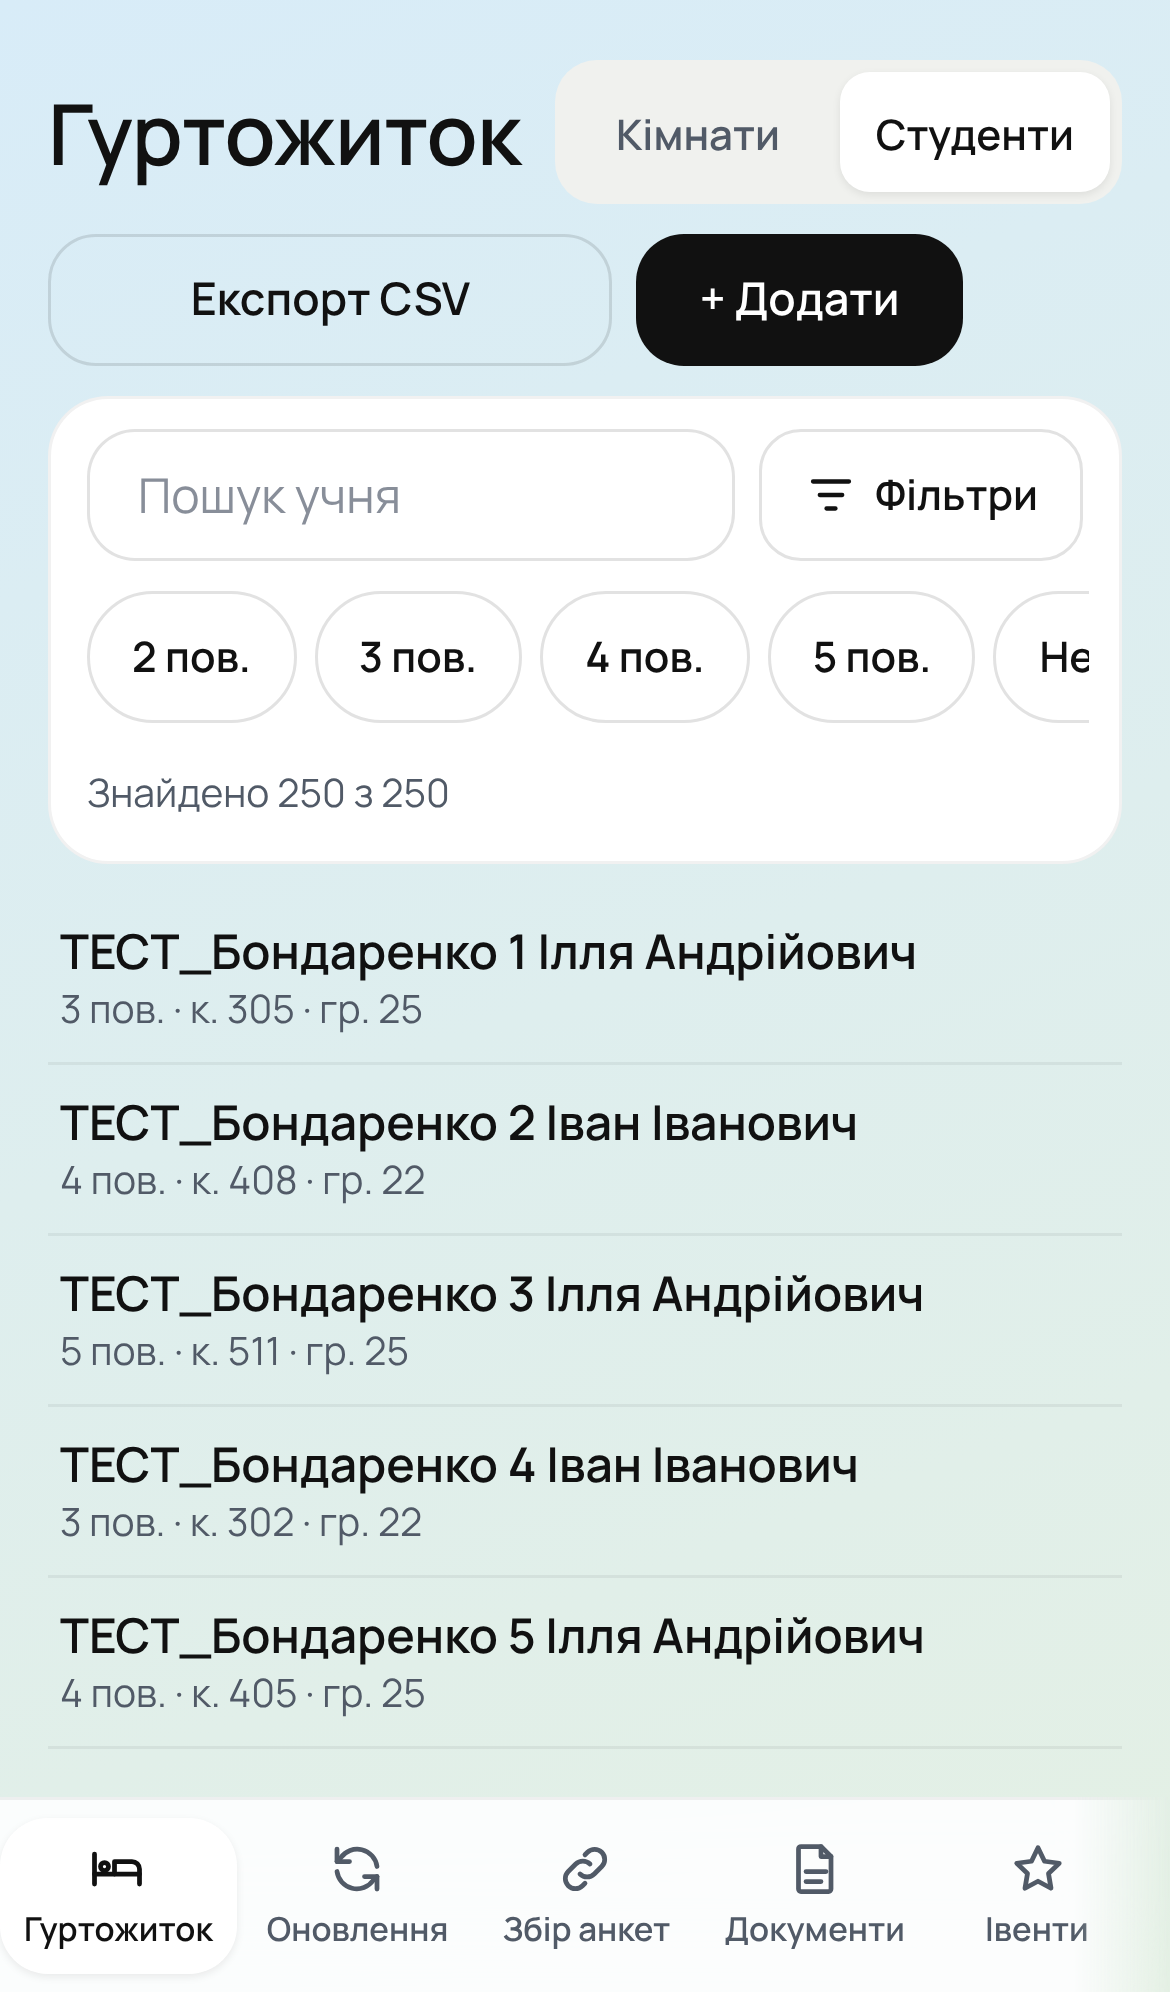
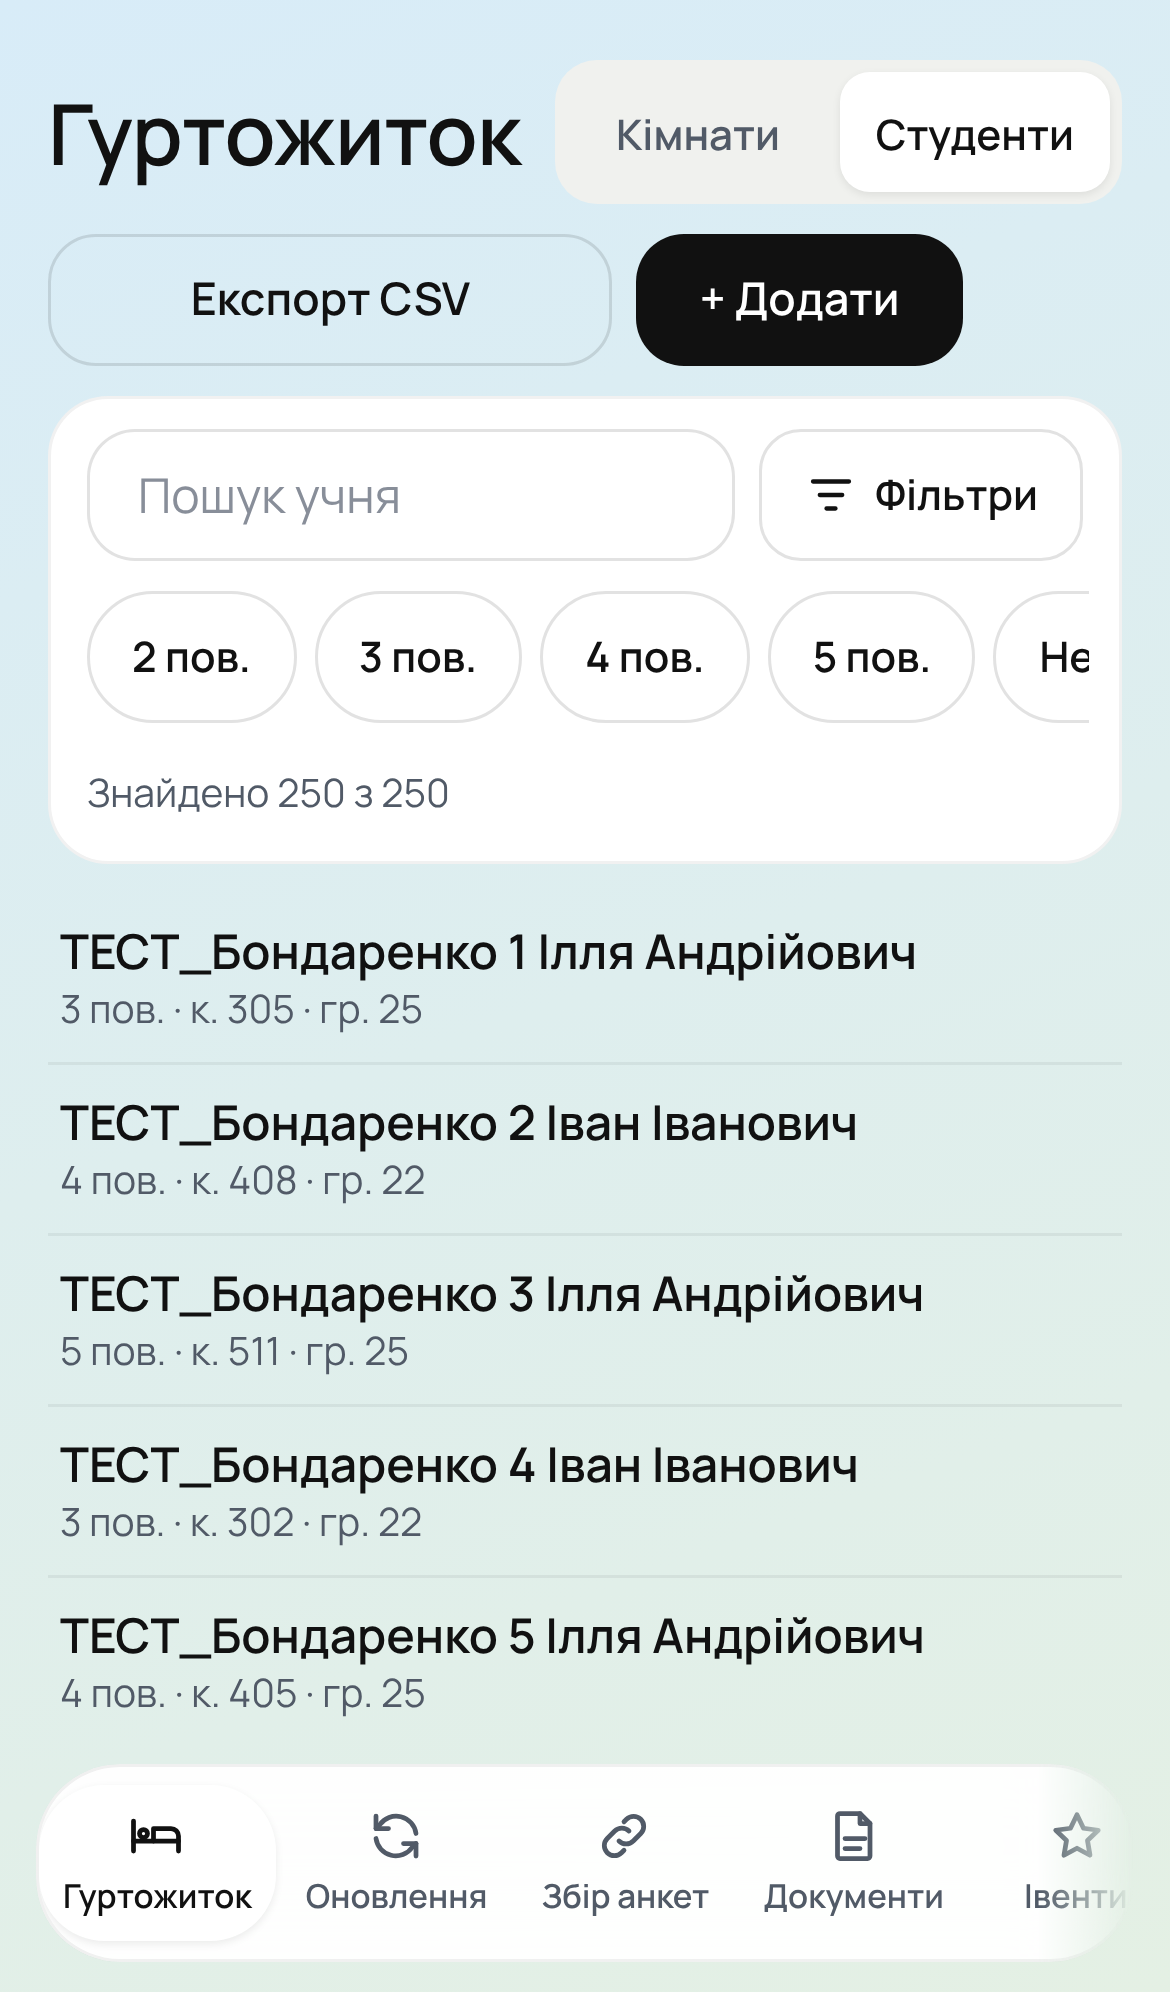
Мобільна версія: згортуваний список «Нерозподілені», суцільний фон без зелених смуг, плаваюче меню-плашка
Claude-Session: https://claude.ai/code/session_0179mcXHM5VdoTUKv99Gi4F2

Changed region(s): [[0.0, 0.8715, 0.9538, 1.0]]

diff --git a/src/features/rooms/RoomsPage.tsx b/src/features/rooms/RoomsPage.tsx
@@ -1,7 +1,9 @@
 import { useContext, useMemo, useState, type PointerEvent as ReactPointerEvent } from 'react'
 import { HostelNewRoom } from '../../pages/hostelContext'
 import { useAuth } from '../../auth/useAuth'
+import { Icon } from '../../components/ui/icons'
 import { ScrollArea } from '../../components/ui/ScrollArea'
+import { useIsMobile } from '../students-list/logic'
 import { assignStudent, createRoom, fetchCurrentRoomId, moveStudent, unassignStudent, updateRoom } from './api'
 import { ConfirmMoveDialog, EditRoomDialog, NewRoomDialog, PickRoomDialog } from './Dialogs'
 import { PupilChip } from './PupilChip'
@@ -31,7 +33,11 @@ function Pool({ pupils, lastRoom, canEdit, hint, isOver, draggingId, onDragStart
   onMove: (p: Pupil, roomId: string | null) => void
 }) {
   // Немає нерозподілених — розділ зникає; під час перетягування з кімнати лишається вузькою ціллю «зняти з кімнати».
+  const mobile = useIsMobile()
+  const [open, setOpen] = useState(false)
   if (pupils.length === 0 && draggingId === null) return null
+  // На телефоні список за замовчуванням згорнутий (звільняє екран для кімнат); розгортається по натисненню на заголовок.
+  const collapsed = mobile && !open && draggingId === null
   return (
     <section
       data-drop="pool"
@@ -39,17 +45,26 @@ function Pool({ pupils, lastRoom, canEdit, hint, isOver, draggingId, onDragStart
       aria-label="Нерозподілені"
       data-testid="pool"
     >
-      <header>
-        <strong>Нерозподілені</strong> <span className="rm-badge">{pupils.length}</span>
-      </header>
-      <ScrollArea className="rm-pool-scroll" body="rm-pool-list">
+      {mobile ? (
+        <header>
+          <button type="button" className="rm-pool-toggle" aria-expanded={!collapsed} onClick={() => setOpen((v) => !v)}>
+            <strong>Нерозподілені</strong> <span className="rm-badge">{pupils.length}</span>
+            <span className={`rm-pool-chevron${collapsed ? '' : ' open'}`}><Icon name="chevron" size={22} /></span>
+          </button>
+        </header>
+      ) : (
+        <header>
+          <strong>Нерозподілені</strong> <span className="rm-badge">{pupils.length}</span>
+        </header>
+      )}
+      {!collapsed && <ScrollArea className="rm-pool-scroll" body="rm-pool-list">
         <ul>
           {pupils.map((p) => (
             <PupilChip key={p.id} pupil={p} roomId={null} canEdit={canEdit} dragging={draggingId === p.id} onDragStart={onDragStart} note={lastRoom[p.id] ? `було: ${lastRoom[p.id]}` : undefined} onMove={onMove} />
           ))}
           {pupils.length === 0 && <li className="muted small">Перетягніть сюди, щоб зняти з кімнати.</li>}
         </ul>
-      </ScrollArea>
+      </ScrollArea>}
     </section>
   )
 }

diff --git a/src/styles/ux-mobile.css b/src/styles/ux-mobile.css
@@ -10,3 +10,28 @@
   .rm-tabs { gap: 4px; }
   .rm-tabs button { flex: 1 1 auto; padding: 0 8px; white-space: nowrap; }
 }
+
+/* Згортуваний список «Нерозподілені» (телефон) */
+.rm-pool-toggle { width: 100%; min-height: 44px; display: flex; align-items: center; gap: 8px; padding: 0; background: transparent; color: var(--text); border: 0; border-radius: 12px; font-size: inherit; text-align: left; justify-content: flex-start; }
+.rm-pool-toggle:hover:not(:disabled) { background: transparent; opacity: 1; }
+.rm-pool-chevron { margin-left: auto; display: grid; place-items: center; width: 44px; height: 44px; margin-right: -8px; color: var(--text2Hi); transition: transform var(--t-mid, .2s) var(--ease, ease); }
+.rm-pool-chevron.open { transform: rotate(180deg); }
+.rm-pool > header { margin-bottom: 0; }
+.rm-pool:has(.rm-pool-list) > header { margin-bottom: 8px; }
+
+/* Фон і системні смуги телефона: один безперервний градієнт, без «зелених» смужок зверху/знизу (було: --page як запасний колір) */
+@media (max-width: 760px), (pointer: coarse) and (max-height: 500px) {
+  html, body { background: linear-gradient(160deg, var(--g1), var(--g2)) fixed, var(--g1); }
+  .shell-panel { background: transparent; padding-bottom: calc(84px + env(safe-area-inset-bottom)); }
+  .content { padding-top: calc(20px + env(safe-area-inset-top)); }
+
+  /* плаваюче меню-«плашка»: не притискається до країв екрана */
+  .tabs-m {
+    left: 12px; right: 12px; bottom: calc(10px + env(safe-area-inset-bottom)); padding: 6px;
+    border: 1px solid var(--border); border-radius: 28px; box-shadow: var(--shadowPop);
+    background: color-mix(in oklch, var(--surface) 94%, transparent);
+  }
+  .tab-m.active, button.tab-m { border-radius: 22px; }
+  .row.sticky-actions { bottom: calc(88px + env(safe-area-inset-bottom)); }
+}
+@media (max-width: 560px) { .form-actions { bottom: calc(88px + env(safe-area-inset-bottom)); } }

diff --git a/index.html b/index.html
@@ -2,7 +2,8 @@
 <html lang="uk">
   <head>
     <meta charset="UTF-8" />
-    <meta name="viewport" content="width=device-width, initial-scale=1.0" />
+    <meta name="viewport" content="width=device-width, initial-scale=1.0, viewport-fit=cover" />
+    <meta name="theme-color" content="#D8ECF8" />
     <title>Гуртожиток</title>
     <script>
       (function () {
@@ -10,6 +11,7 @@
           var t = localStorage.getItem('dormitory-theme')
           var dark = t === 'dark' || (t !== 'light' && matchMedia('(prefers-color-scheme: dark)').matches)
           document.documentElement.dataset.theme = dark ? 'dark' : 'light'
+          var m = document.querySelector('meta[name=theme-color]'); if (m) m.content = dark ? '#101C26' : '#D8ECF8'
         } catch (e) {}
       })()
     </script>

diff --git a/src/lib/theme.ts b/src/lib/theme.ts
@@ -17,6 +17,9 @@ function read(): ThemePref {
 export function applyTheme(pref: ThemePref): void {
   const dark = pref === 'dark' || (pref === 'system' && window.matchMedia('(prefers-color-scheme: dark)').matches)
   document.documentElement.dataset.theme = dark ? 'dark' : 'light'
+  // колір системної смуги (годинник/мережа) на телефоні = верх фону сторінки, щоб не було «зеленої смужки»
+  const meta = document.querySelector<HTMLMetaElement>('meta[name=theme-color]')
+  if (meta) meta.content = dark ? '#101C26' : '#D8ECF8'
 }
 
 /** Циклічний перемикач: система → світла → темна. */

diff --git a/ux-audit/REPORT.md b/ux-audit/REPORT.md
@@ -16,6 +16,9 @@
 | U-08 | Форми, Оновлення, Адмін | мобільний | Прапорці/чекбокси 22×22 | — | низька | не виправлено (візуальний редизайн) |
 | U-09 | Кімнати | мобільний | Перетягування на touch вимкнено навмисно (є кнопка «Перемістити») — працює; два вкладені скрол-вікна («Нерозподілені» + кімнати) ускладнюють прокрутку | Кімнати | низька | залишено, обговорити з власником |
 | U-10 | Студенти | мобільний | Шапка «Гуртожиток» + перемикач + «Експорт CSV/Додати» займають ≈ 1/3 екрана до списку | — | низька | не виправлено (зона design-ui) |
+| U-11 | Усі, телефон | iPhone | Зелені смуги зверху/знизу при синьому фоні: запасний колір `--page` (зелений) і чорний фон `html`, немає `viewport-fit=cover`/`theme-color` | відкрити на iPhone | висока | **виправлено**: градієнт на `html`/`body`, `theme-color`, `viewport-fit=cover`, safe-area (перевірено лише в емуляції — потрібна перевірка на реальному iPhone) |
+| U-12 | Кімнати, телефон | мобільний | «Нерозподілені» займають пів екрана | Кімнати | середня | **виправлено**: згорнуто за замовчуванням, шеврон, розгортається дотиком |
+| U-13 | Мобільне меню | телефон | Меню притиснуте до країв | — | низька | **виправлено**: плаваюча плашка з відступами 12px і тінню |
 
 ## Не перевірено
 Живі дані/RLS/реальні помилки Supabase, публічна анкета `#/form/:token` з реальним токеном, затвердження оновлень, діалоги кімнат, перегляд документів (docx), клавіатура на реальному пристрої, контраст (автоматично не вимірювався).
